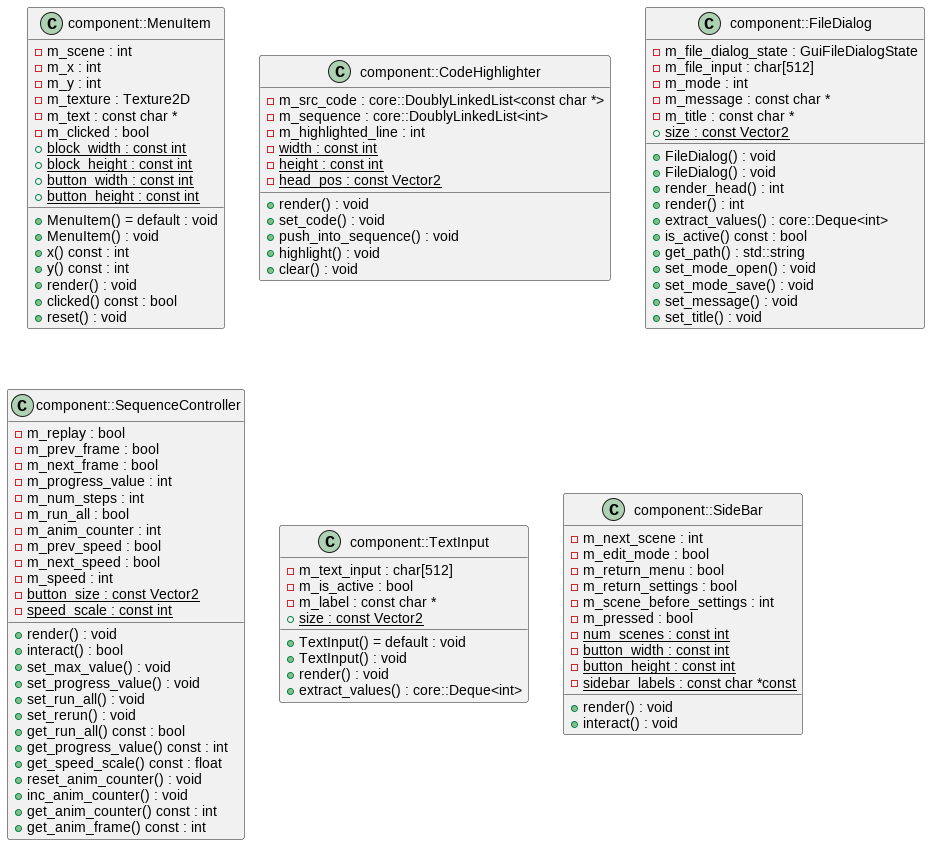
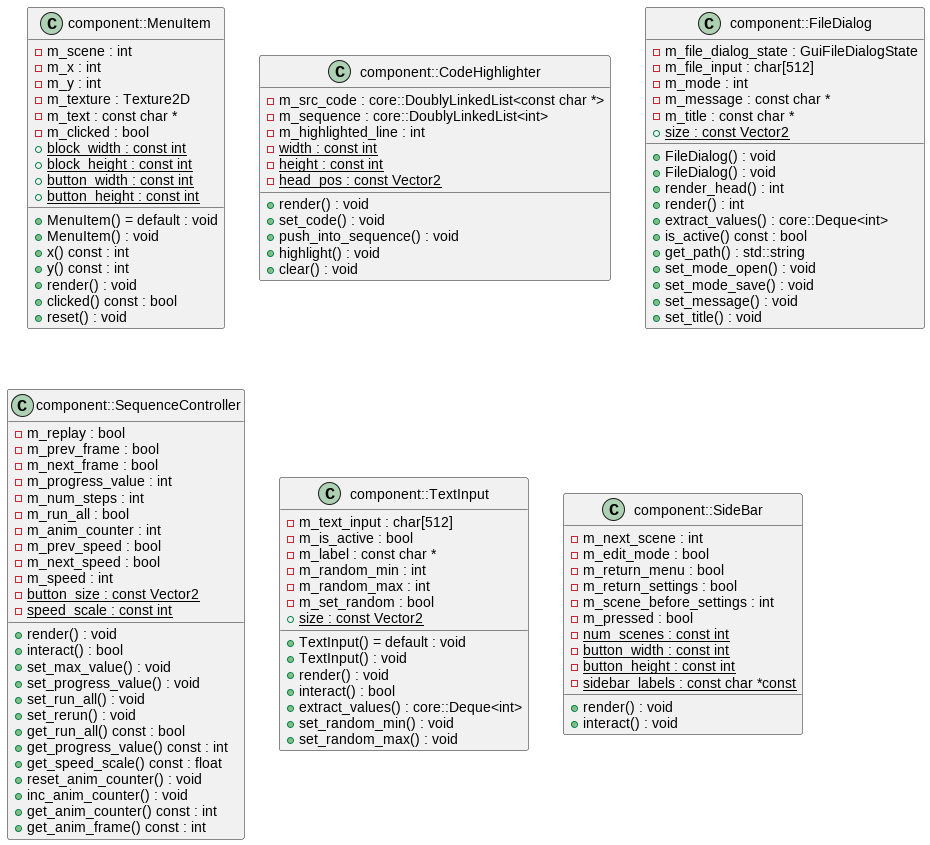
Recolor components

Changed region(s): [[0.3118, 0.5538, 0.5301, 0.7385], [0.3118, 0.8, 0.5613, 0.8923]]

diff --git a/src/component/text_input.cpp b/src/component/text_input.cpp
@@ -6,6 +6,7 @@
 #include "constants.hpp"
 #include "core/deque.hpp"
 #include "raygui.h"
+#include "settings.hpp"
 #include "utils.hpp"
 
 namespace component {
@@ -20,9 +21,13 @@ void TextInput::render(float& options_head, float head_offset) {
     Rectangle shape{options_head, constants::scene_height - size.y, size.x,
                     size.y};
 
-    utils::DrawText(m_label,
-                    {options_head, constants::scene_height - size.y - 25},
-                    BLACK, 20, 2);
+    utils::DrawText(
+        m_label, {options_head, constants::scene_height - size.y - 25},
+        utils::adaptive_text_color(
+            Settings::get_instance().get_color(Settings::num_color - 1)),
+        20, 2);
+
+    DrawRectangleRec(shape, RAYWHITE);
 
     if (GuiTextBox(shape, static_cast<char*>(m_text_input),
                    constants::text_buffer_size, m_is_active)) {

diff --git a/src/component/code_highlighter.cpp b/src/component/code_highlighter.cpp
@@ -10,13 +10,15 @@ void CodeHighlighter::render() {
     for (int i = 0; i < m_src_code.size(); ++i) {
         const Settings& settings = Settings::get_instance();
 
-        Color bg_color = (i == m_highlighted_line) ? settings.get_color(4)
-                                                   : settings.get_color(0);
+        int color_index = (i == m_highlighted_line) ? 4 : 0;
+        Color bg_color = settings.get_color(color_index);
+        Color text_color = utils::adaptive_text_color(bg_color);
+
         Rectangle shape{head_pos.x, head_pos.y + i * height, width, height};
         Vector2 text_head = {head_pos.x + 10, head_pos.y + i * height + 5};
 
         DrawRectangleRec(shape, bg_color);
-        utils::DrawText(m_src_code.at(i), text_head, WHITE, 20, 2);
+        utils::DrawText(m_src_code.at(i), text_head, text_color, 20, 2);
     }
 }
 
